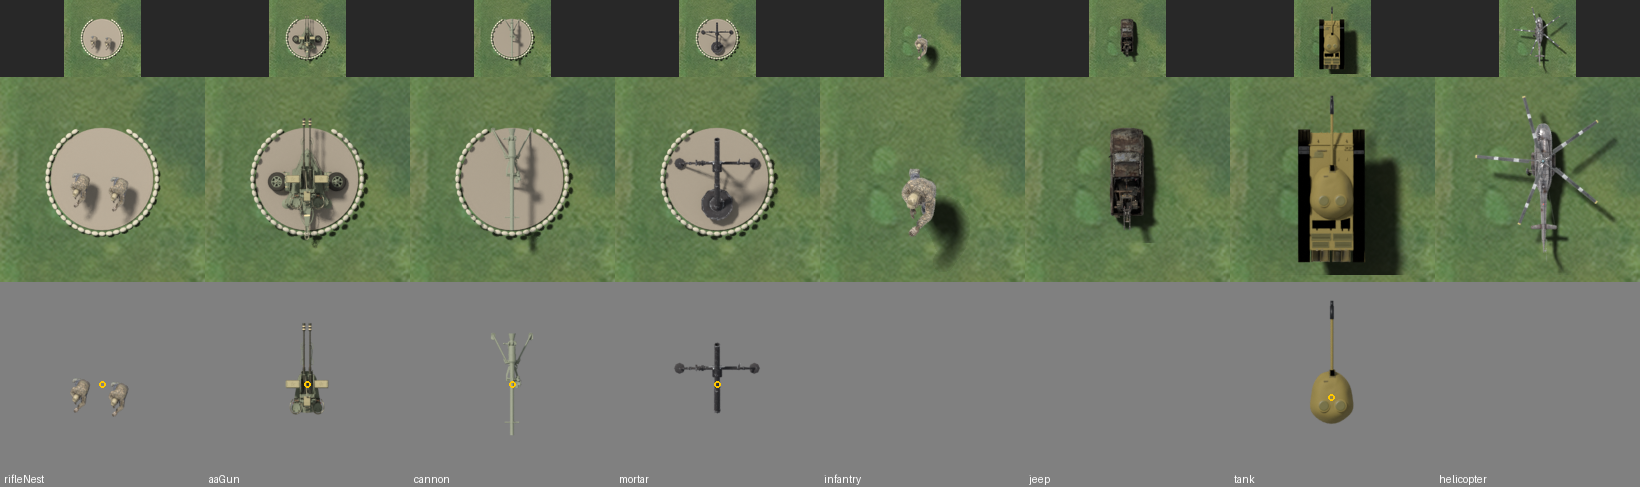
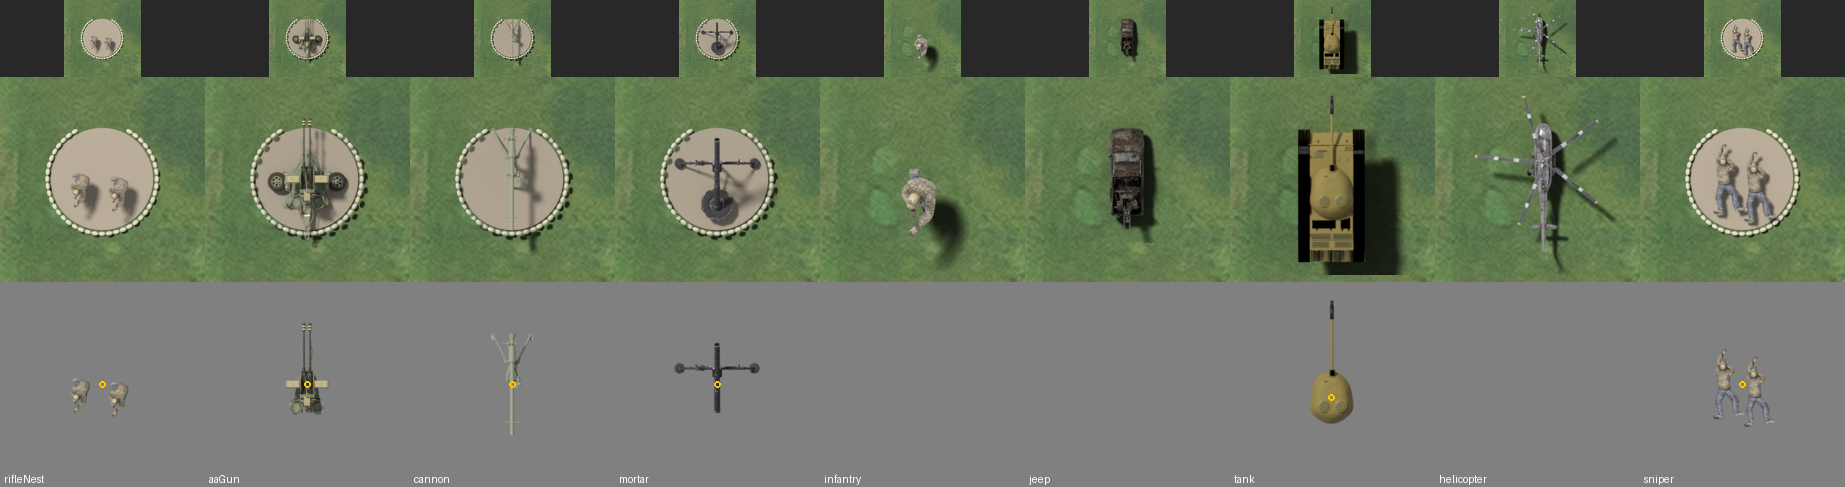
feat: Sniper team render for Insurgents (#462)
Claude-Session: https://claude.ai/code/session_013cBup2UD4c94Ym9y7nULLr

diff --git a/src/data/renders.test.ts b/src/data/renders.test.ts
@@ -2,6 +2,7 @@ import { existsSync, readFileSync } from 'node:fs';
 import { PNG } from 'pngjs';
 import { describe, expect, it } from 'vitest';
 import { RENDERS, RENDER_FACING, renderFor } from './renders';
+import { FACTIONS } from '../sim/factions';
 import { SPRITES, type SpriteKind } from './sprites';
 
 describe('RENDERS', () => {
@@ -53,8 +54,8 @@ describe('RENDERS', () => {
 });
 
 describe('the committed Sniper renders (art-ahead: not in RENDERS until #364 puts the Sniper in play)', () => {
-  // The Factions whose Sniper is rendered so far: US (#459), Russia and China (#460). Later parts of #358 add theirs.
-  for (const faction of ['us', 'russia', 'china']) {
+  // The Factions whose Sniper is rendered so far: US (#459), Russia and China (#460), Insurgents (#462): every Faction.
+  for (const faction of FACTIONS) {
     const id = `${faction}-sniper`;
     const dir = `assets/render-${id}`;
 

diff --git a/tests/render-pivot.test.ts b/tests/render-pivot.test.ts
@@ -120,8 +120,8 @@ describe('the complete Faction sets (ADR-0009, point 5)', () => {
 describe('the Sniper renders (art-ahead, #358)', () => {
   const snipers = RENDER_CONFIG.models.filter((m) => m.kind === 'sniper');
 
-  it('covers the Factions done so far: US (#459), Russia and China (#460)', () => {
-    expect(snipers.map((m) => m.faction)).toEqual(expect.arrayContaining(['us', 'russia', 'china']));
+  it('covers every Faction: US (#459), Russia and China (#460), Insurgents (#462)', () => {
+    expect(snipers.map((m) => m.faction).sort()).toEqual([...FACTIONS].sort());
   });
 
   for (const model of snipers) {

diff --git a/docs/adr/0009-satellite-milsim-art-and-factions.md b/docs/adr/0009-satellite-milsim-art-and-factions.md
@@ -36,9 +36,9 @@ The maintainer also wants each map to pit two sides against each other, picked f
 | **Jeep** (unarmored, fast) | M1097 soft-top Humvee | UAZ-469 | BJ2022 Brave Warrior | Toyota Hilux technical with a DShK |
 | **Tank** | M1A2 SEPv3 Abrams | T-72B3 | Type 99A | T-55 (captured) |
 | **Helicopter** (light armor) | UH-60 Black Hawk | Mi-8AMTSh | Z-20 | Mi-8 (captured) |
-| **Sniper** (rendered ahead of play, #358) | Two-man team prone in a dug-in hide, M107 / M2010, OCP | Two-man team prone in a dug-in hide, ORSIS T-5000 / ASVK, EMR | Two-man team prone in a dug-in hide, QBU-10, Type 07 | to come |
+| **Sniper** (rendered ahead of play, #358) | Two-man team prone in a dug-in hide, M107 / M2010, OCP | Two-man team prone in a dug-in hide, ORSIS T-5000 / ASVK, EMR | Two-man team prone in a dug-in hide, QBU-10, Type 07 | Two-man team prone in a dug-in hide, Dragunov SVD, civilian clothes |
 
-Updated 2026-11-11 (#459): the Sniper row. Its renders come one Faction per part, before the Sniper is in play (#364); the US render is a stand-in rifle and kit on the same soldier model as the Rifle Nest. Updated 2026-11-11 (#460): Russia and China, the same model and pose re-coloured like their Rifle Nests.
+Updated 2026-11-11 (#459): the Sniper row. Its renders come one Faction per part, before the Sniper is in play (#364); the US render is a stand-in rifle and kit on the same soldier model as the Rifle Nest. Updated 2026-11-11 (#460): Russia and China, the same model and pose re-coloured like their Rifle Nests. Updated 2026-11-11 (#462): Insurgents, which completes the kind for all four Factions.
 
 Picks match the stats: the Jeep has no armor (so no armored Humvee or Tigr), the Helicopter has light armor (a transport, not an Apache or Hind), and the AA Gun is a fast-firing gun that also hits ground targets.
 

diff --git a/docs/assets.md b/docs/assets.md
@@ -231,6 +231,7 @@ Three packs hold the art-style spike: top-down renders of two CC-BY Sketchfab mo
 | `render-insurgents-aa-gun/` | "ZU - 23, зенитная установка, ЗУ-23, зенитка" by LuckySkink9661, CC-BY-4.0 | `scripts/render-sprite.py` |
 | `render-insurgents-mortar/` | "Pindad Mortars" by sakigakefuruzawa, CC-BY-4.0 | `scripts/render-sprite.py` |
 | `render-insurgents-infantry/` | "Tactical Soldier (game ready) low poly" by MissingTray1151, CC-BY-4.0 | `scripts/render-sprite.py` |
+| `render-insurgents-sniper/` | "Tactical Soldier (game ready) low poly" by MissingTray1151, CC-BY-4.0 | `scripts/render-sprite.py` |
 | `render-insurgents-jeep/` | "TOYOTA DO AFEGANISTÃO (LOW POLY)" by lm9241221, CC-BY-4.0 | `scripts/render-sprite.py` |
 | `render-insurgents-tank/` | "T 54/55 Tank" by SGAstudios3DandGameDevelopment, CC-BY-4.0 | `scripts/render-sprite.py` |
 | `render-insurgents-helicopter/` | "Russian Transport Heli" by jeandiz, CC-BY-4.0 | `scripts/render-sprite.py` |

diff --git a/CREDITS.md b/CREDITS.md
@@ -308,6 +308,15 @@ Third-party assets in this game. Generated from `assets/manifest.json` by `npm r
 - Downloaded: 2026-11-02
 - Files: `assets/render-insurgents-infantry/**`
 
+## Tactical Soldier (game ready) low poly (top-down render)
+
+- Author: MissingTray1151
+- Source: <https://sketchfab.com/3d-models/2bfce585144d4403a3ddf76a0e65767a>
+- License: CC-BY-4.0
+- Attribution: "Tactical Soldier (game ready) low poly" by MissingTray1151 (sketchfab.com), CC-BY 4.0, rendered top-down, posed prone and aiming (its prone_firing animation), kit re-coloured to civilian browns and denim, a shooter and an observer set in a dug-in pit of our own
+- Downloaded: 2026-11-11
+- Files: `assets/render-insurgents-sniper/**`
+
 ## TOYOTA DO AFEGANISTÃO (LOW POLY) (top-down render)
 
 - Author: lm9241221
